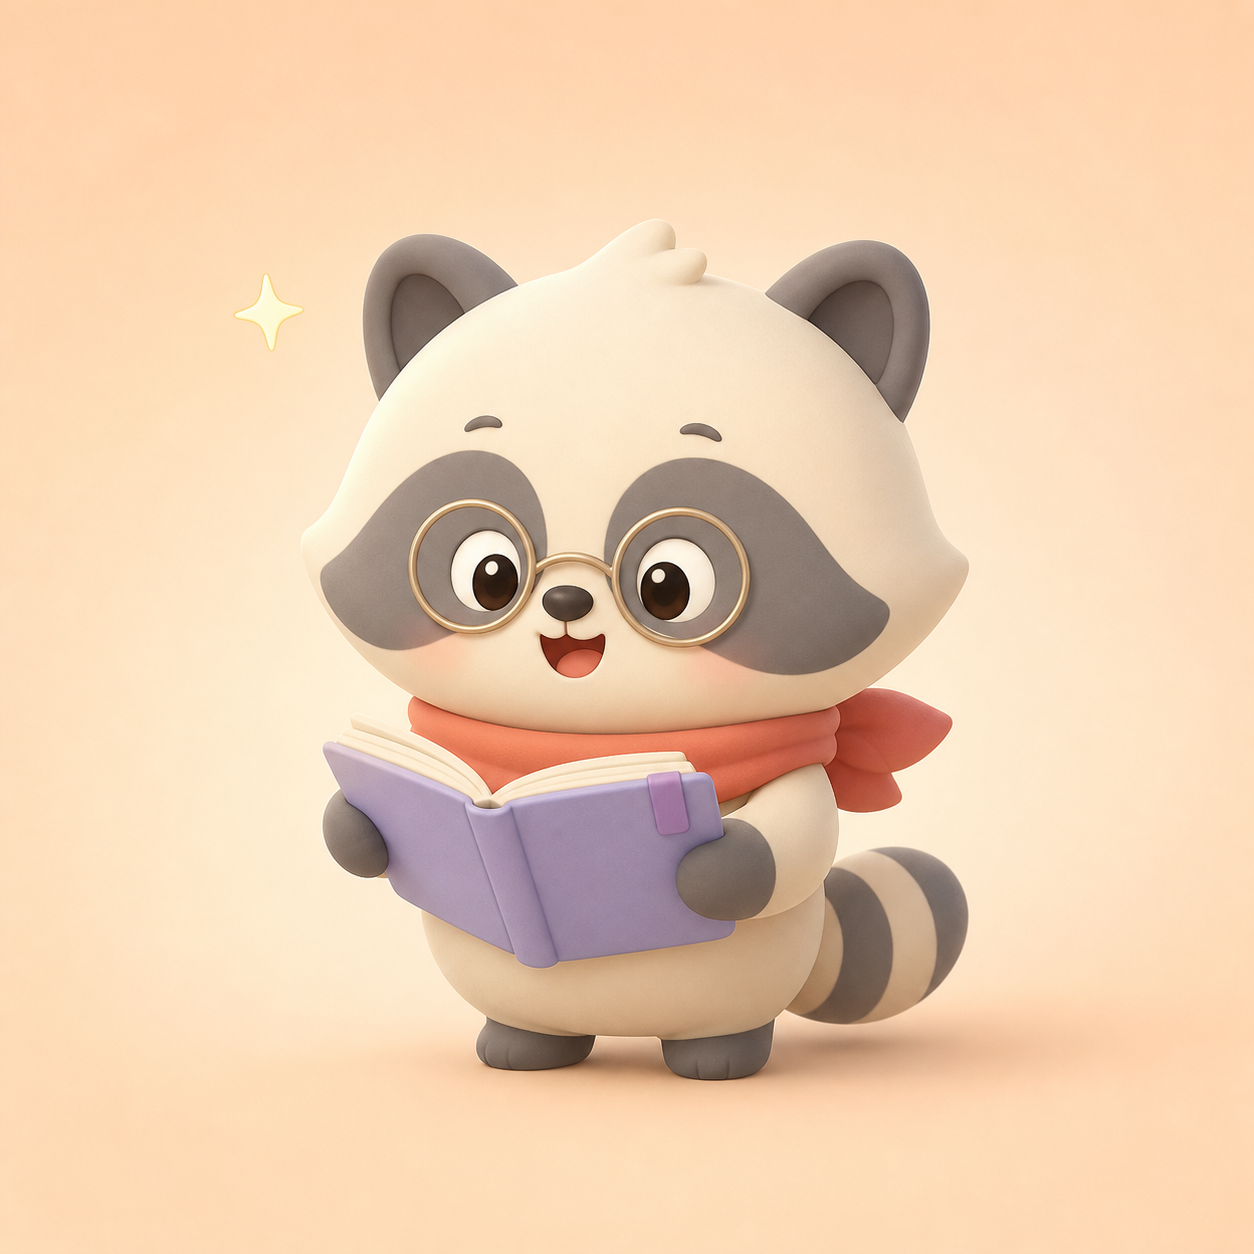
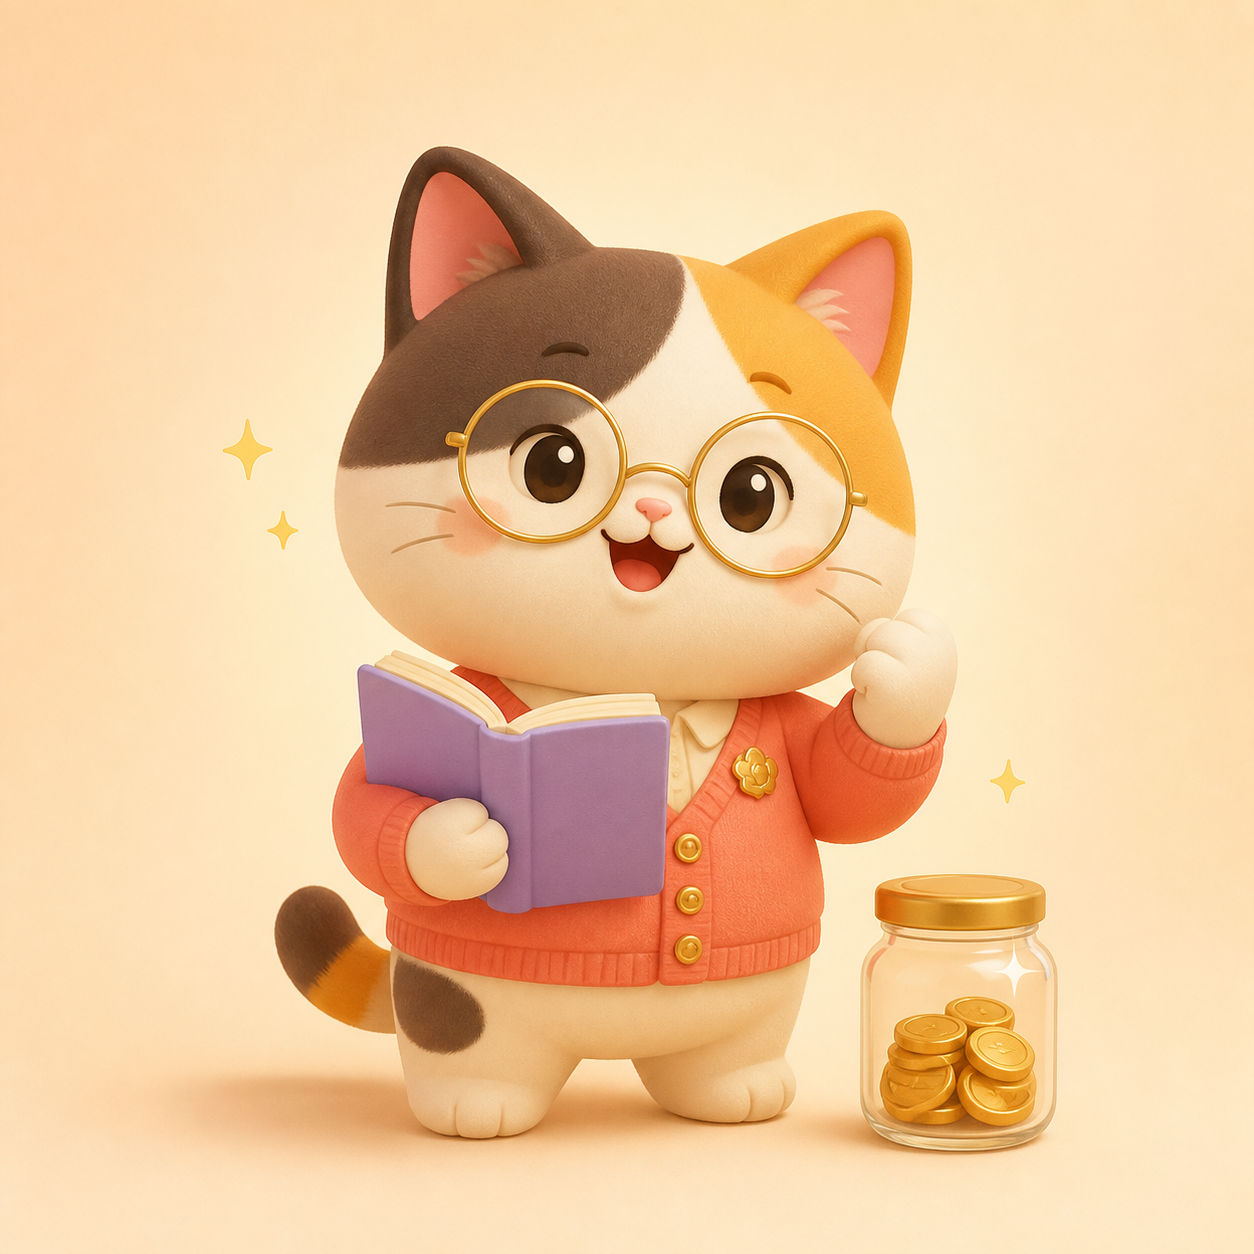
Replace rank mascots with wealth-growth lucky cats

diff --git a/files/sw.js b/files/sw.js
@@ -1,4 +1,4 @@
-const VERSION = '2026-08-07-v19';
+const VERSION = '2026-08-07-v20';
 const CACHE = 'quiz-' + VERSION;
 
 self.addEventListener('install', e => {

diff --git a/sw.js b/sw.js
@@ -1,4 +1,4 @@
-const VERSION = '2026-08-07-v19';
+const VERSION = '2026-08-07-v20';
 const CACHE = 'quiz-' + VERSION;
 
 self.addEventListener('install', e => {

diff --git a/AGENTS.md b/AGENTS.md
@@ -145,6 +145,16 @@ key, value (JSON), updated_at
 
 ## 📅 작업 이력
 
+### 2026-08-07 (복고양이 부자 성장 캐릭터 교체)
+**너구리 캐릭터를 제거하고 직급이 올라갈수록 풍요로워지는 복고양이 매니저로 교체**
+- 신입: 동전 하나와 빈 지갑, 새싹
+- 열공: 교재와 동전 저금통
+- 여유: 커피, 가방, 모아진 동전
+- 베테랑: 상담 헤드셋, 태블릿, 골드카드와 고급 가방
+- 전설의 상담왕: 왕관, 빛나는 상담 교재, 황금 코인과 최종 복장
+- 기존 직급·포인트 자동 연동 로직은 그대로 유지
+- 서비스 워커 캐시 버전을 `2026-08-07-v20`으로 갱신
+
 ### 2026-08-07 (직급 연동 다마고치형 성장 캐릭터)
 **누적 포인트 직급에 따라 같은 너구리 코치가 다섯 단계로 성장하도록 연동**
 - 신입 상담사: 연필과 새싹을 든 초보 캐릭터
